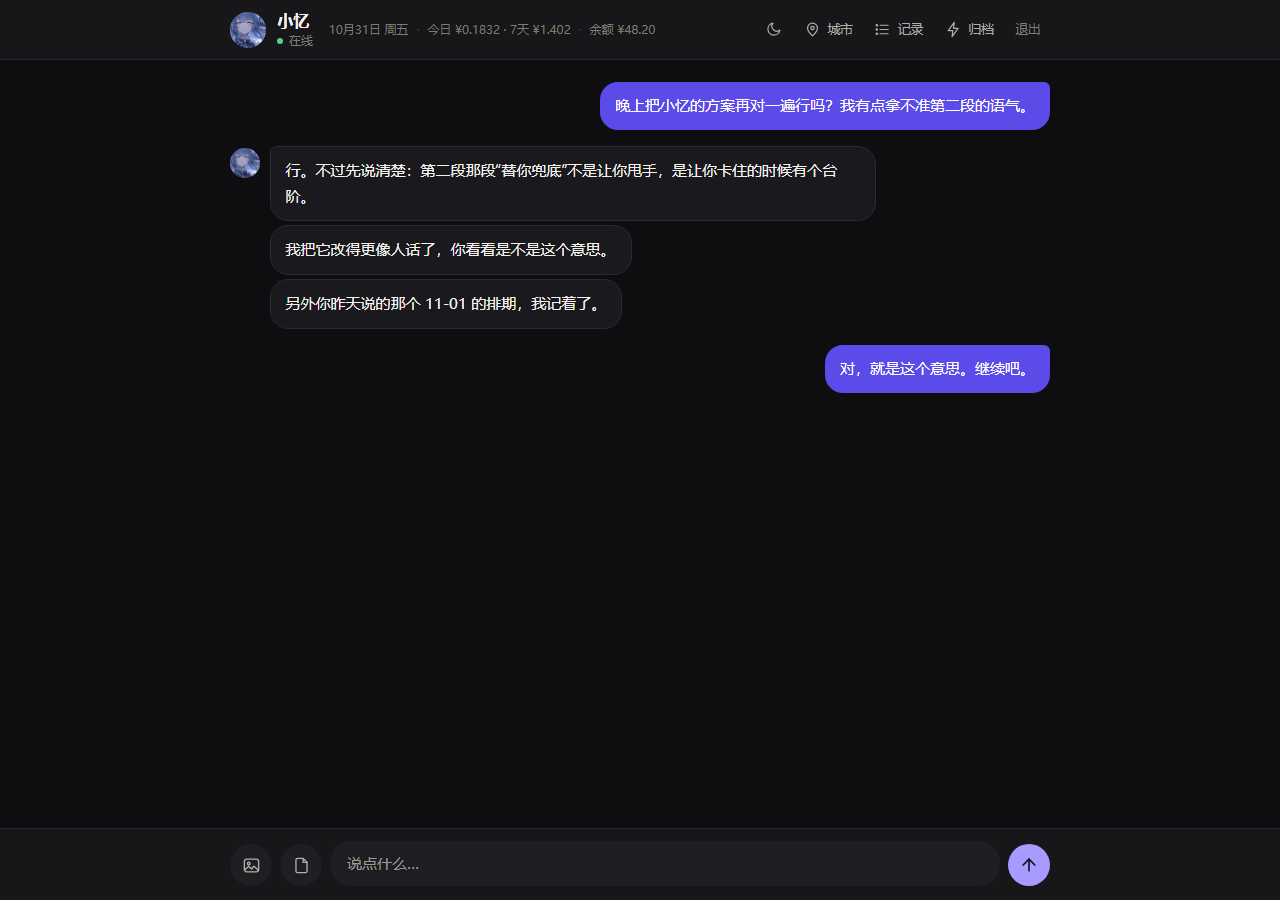
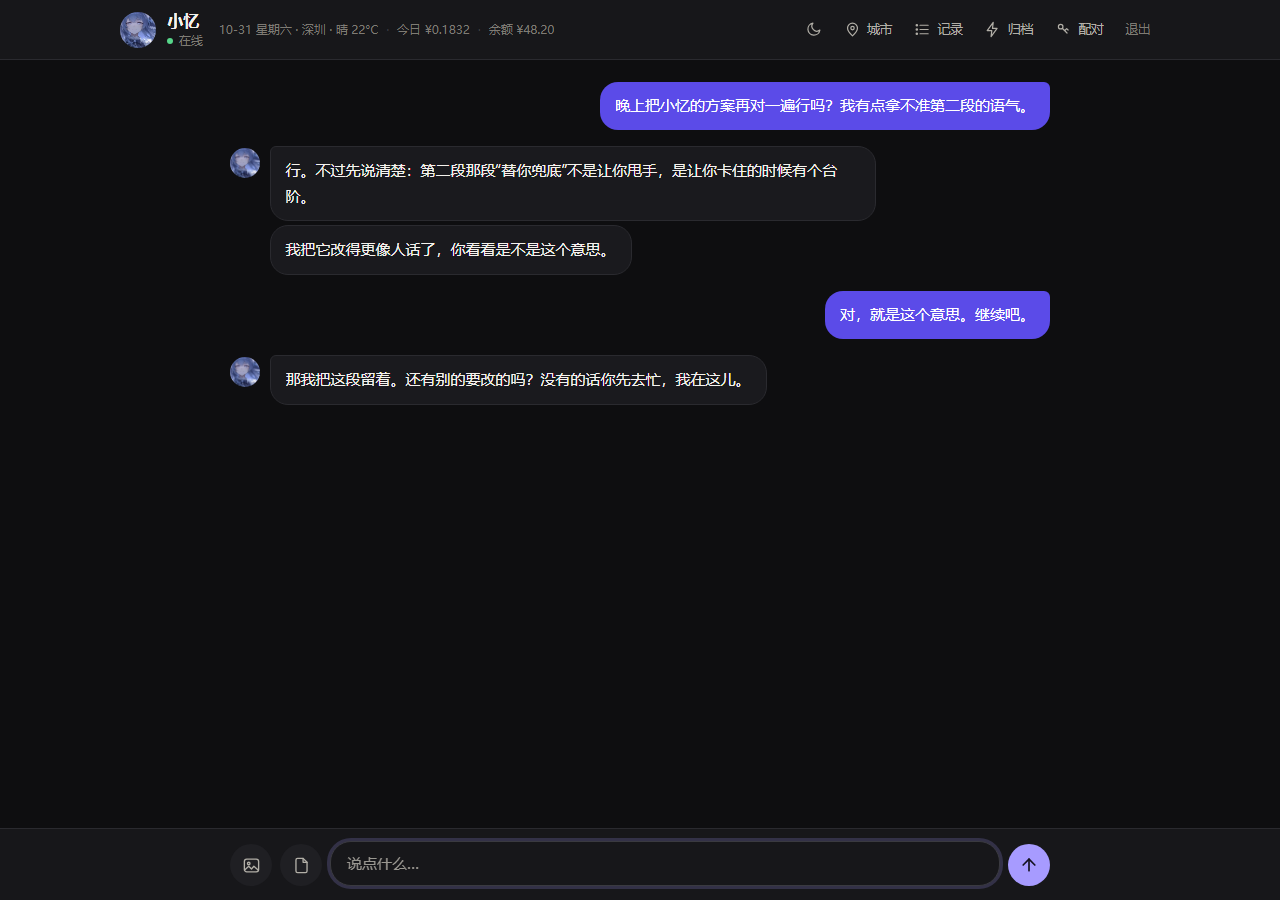
fix(web): 顶栏窄屏折行 + 历史/实时消息逐条渲染兜底，纸墨 UI 定稿
- header 在 ≤1100px 折成两行，宽屏铺到 1040px，日期/费用/余额不再被挤成省略号
- loadMoreHistory / pollNewMessages 逐条 try/catch：单条渲染失败不再让整段历史空白（10-31 踩过）
- docs/WEB_UI.md 同步版面规则与检查项；更新三张验收截图

diff --git a/public/index.html b/public/index.html
@@ -106,7 +106,7 @@
   /* ---------- 顶栏 ---------- */
   header {
     display: flex; align-items: center; gap: 1rem;
-    padding: 0 max(1rem, calc((100vw - var(--col)) / 2));
+    padding: 0 max(1rem, calc((100vw - 1040px) / 2));
     height: 60px; flex: 0 0 auto;
     background: var(--surface);
     border-bottom: 1px solid var(--hairline);
@@ -163,6 +163,21 @@
   @media (max-width: 900px) {
     .actions .label { display: none; }
     .actions button, .actions a { padding: .45rem; }
+  }
+
+  /* 窄一点时顶栏折成两行：第一行品牌 + 操作，第二行日期/费用/余额，避免全挤成省略号 */
+  @media (max-width: 1100px) {
+    header {
+      flex-wrap: wrap; height: auto; row-gap: .15rem;
+      padding-top: .5rem; padding-bottom: .5rem;
+    }
+    .brand { order: 1; }
+    .actions { order: 2; margin-left: auto; }
+    .meta {
+      order: 3; flex-basis: 100%;
+      overflow-x: auto; scrollbar-width: none;
+    }
+    .meta::-webkit-scrollbar { display: none; }
   }
 
   /* ---------- 消息区 ---------- */
@@ -966,6 +981,7 @@ function renderUserContent(content) {
   // 落库内容里包含文件原文（给 AI 读），历史渲染只显示文件卡片；
   // 否则刷新后整个文件正文会铺满聊天气泡。
   const fileCards = [];
+  let hadMetaCard = false;
   const pushCard = (name) => {
     const token = `\u0000DSFILE${fileCards.length}\u0000`;
     fileCards.push(`<div class="msg-file"><svg class="icon" viewBox="0 0 24 24" aria-hidden="true"><path d="M14 3H7a2 2 0 0 0-2 2v14a2 2 0 0 0 2 2h10a2 2 0 0 0 2-2V8z"/><path d="M14 3v5h5"/></svg>${escapeHtml(name)}</div>`);
@@ -1267,11 +1283,16 @@ async function loadMoreHistory(jumpToBottom) {
     hasMore = data.has_more ?? false;
     const frag = document.createDocumentFragment();
     for (const m of data.messages || []) {
-      frag.appendChild(buildBubbleEl(
-        m.role === 'user' ? 'user' : 'assistant',
-        m.role === 'user' ? renderUserContent(m.content) : renderMarkdown(stripLeadTime(m.content)),
-        m.content,
-      ));
+      // 单条渲染失败不能让整段历史变空白（2026-10-31 就踩过一次）
+      try {
+        frag.appendChild(buildBubbleEl(
+          m.role === 'user' ? 'user' : 'assistant',
+          m.role === 'user' ? renderUserContent(m.content) : renderMarkdown(stripLeadTime(m.content)),
+          m.content,
+        ));
+      } catch (e) {
+        console.warn('skip history message', m && m.id, e);
+      }
       if (Number.isFinite(m.id) && m.id > latestSeenId) latestSeenId = m.id;
     }
     const prevHeight = messagesEl.scrollHeight;
@@ -1325,11 +1346,15 @@ async function pollNewMessages() {
       }
 
       for (const m of incoming) {
-        messagesEl.appendChild(buildBubbleEl(
-          m.role === 'user' ? 'user' : 'assistant',
-          m.role === 'user' ? renderUserContent(m.content) : renderMarkdown(stripLeadTime(m.content)),
-          m.content,
-        ));
+        try {
+          messagesEl.appendChild(buildBubbleEl(
+            m.role === 'user' ? 'user' : 'assistant',
+            m.role === 'user' ? renderUserContent(m.content) : renderMarkdown(stripLeadTime(m.content)),
+            m.content,
+          ));
+        } catch (e) {
+          console.warn('skip live message', m && m.id, e);
+        }
       }
       appended = true;
       if (!data.has_more) break;

diff --git a/docs/WEB_UI.md b/docs/WEB_UI.md
@@ -35,7 +35,8 @@
 
 ## 3. 版面
 
-- **一列到底**：内容列宽 `--col: 820px`，顶栏、消息区、输入区共用同一条中线；
+- **一列到底**：聊天与输入区是 820px 的阅读列；顶栏在宽屏上可以铺到 1040px（品牌 + 日期/费用 + 操作放得下），
+  ≤1100px 时折成两行（第一行品牌和操作，第二行日期/费用/余额），避免三个信息块被挤成省略号；
 - **气泡**：她的白底 + 发丝线，我的靛紫实底；只有每组第一条带 6px 小角，其余全圆角；
 - **分组**：同一个人连着说话时气泡贴紧（4px），头像只在第一条出现；换人留 16px；
 - **元信息不上版面**：每条消息的费用、复制按钮默认透明，鼠标悬停才浮出来，长对话不被小字打断；
@@ -58,3 +59,4 @@
 - [x] 390–504px 窄屏不横向溢出，输入框不压在安全区
 - [x] 无 emoji 结构图标；按钮都有 title / aria-label
 - [x] 悬停才出现的元信息不占版面、不挡点击
+- [x] 历史消息单条渲染失败不影响其余消息（分页循环里逐条兜底）
